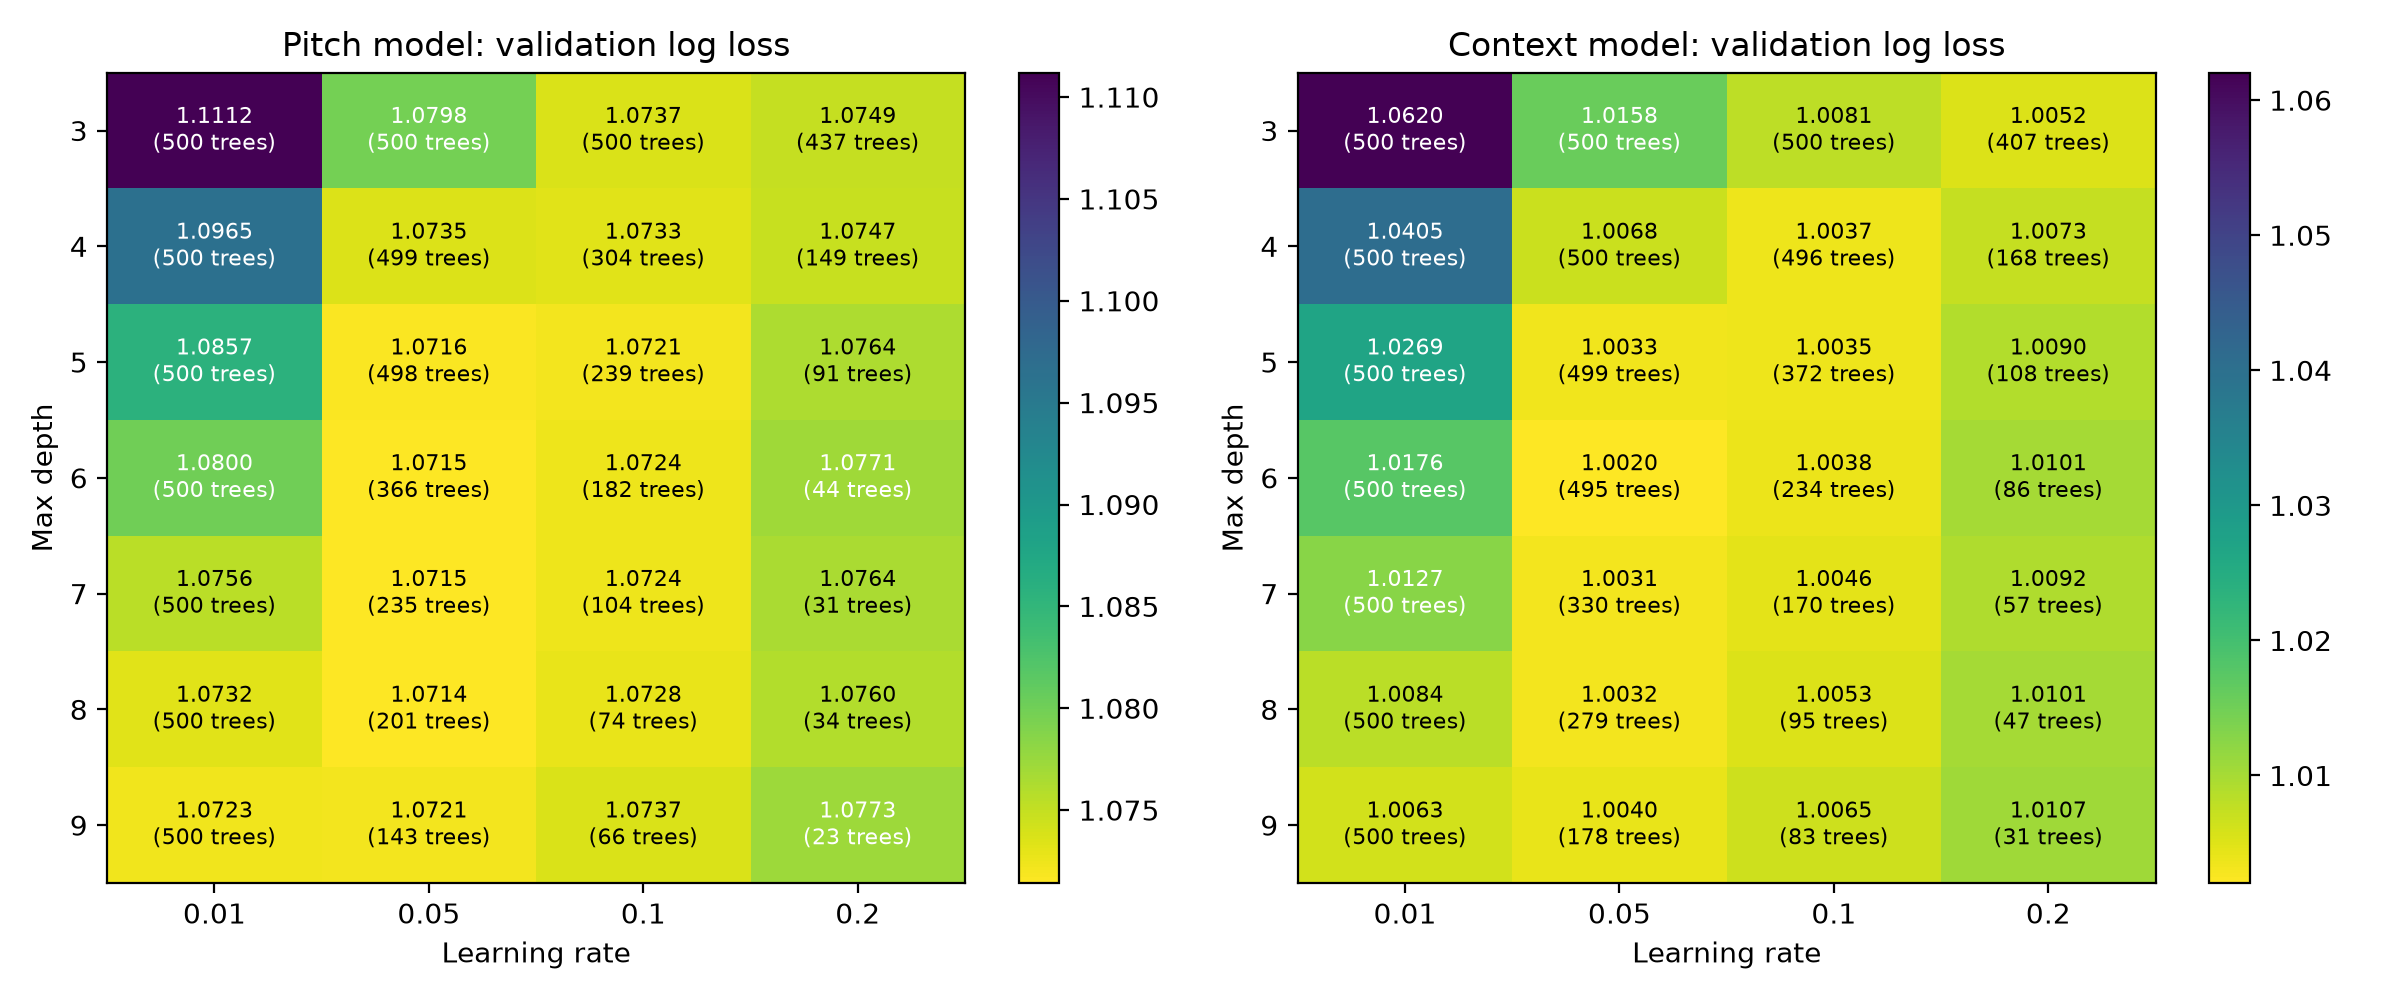
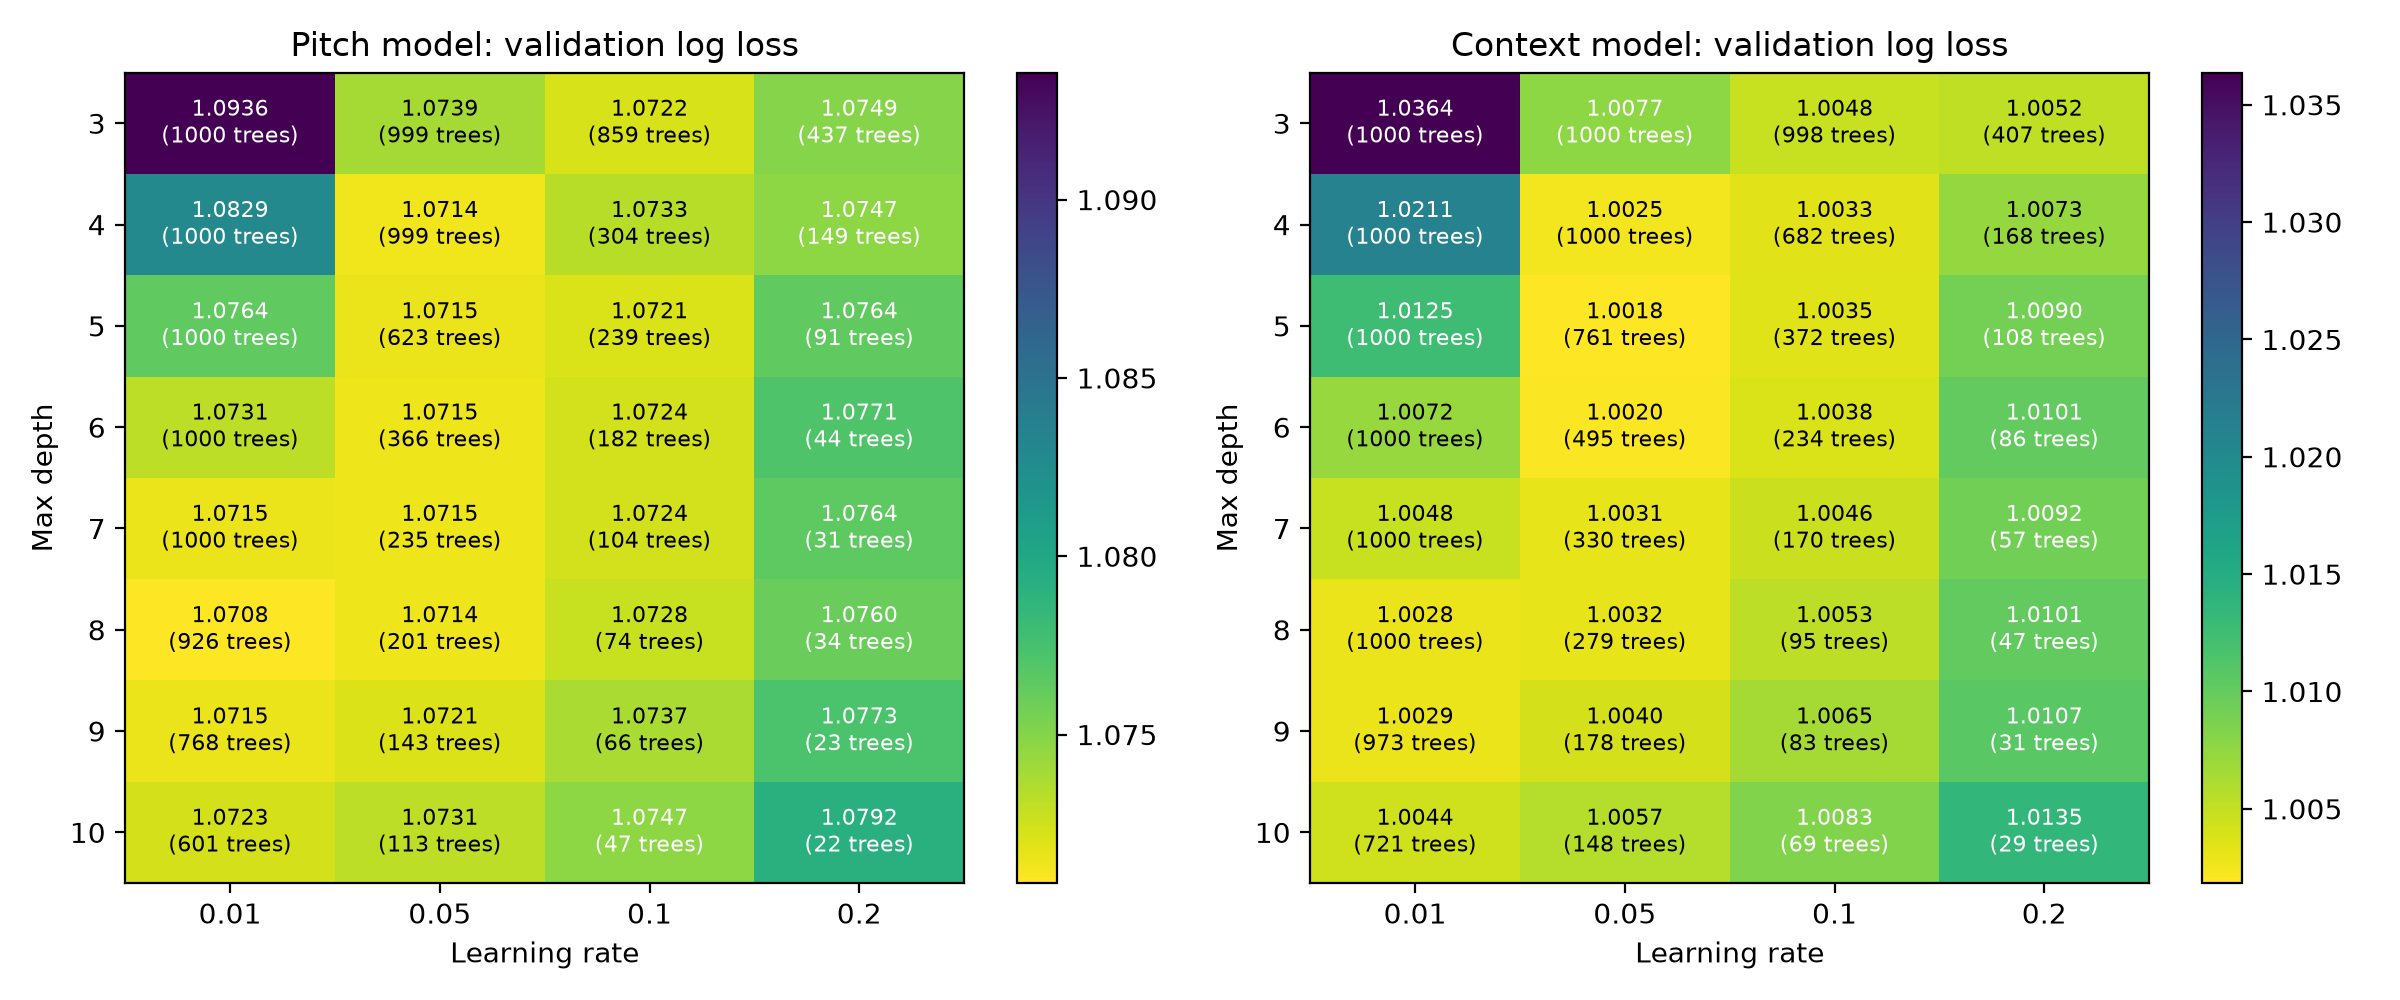
reran hgb

diff --git a/src/train_hgb.py b/src/train_hgb.py
@@ -21,10 +21,10 @@ validation_y = pd.read_csv("data/processed/validation_y.csv")["swing_result"]
 # Tune max_depth and learning_rate for each model
 results = []
 start_time = time.perf_counter()
-for d in range(3, 10):
+for d in range(3, 11):
     for r in [0.01, 0.05, 0.1, 0.2]:
-        hgb_pitch = HistGradientBoostingClassifier(random_state=10, learning_rate=r, max_iter=500, max_depth=d, max_leaf_nodes=None, early_stopping=False, categorical_features=PITCH_CATEGORICAL_FEATURES).fit(train_x_pitch, train_y)
-        hgb_context = HistGradientBoostingClassifier(random_state=10, learning_rate=r, max_iter=500, max_depth=d, max_leaf_nodes=None, early_stopping=False, categorical_features=CONTEXT_CATEGORICAL_FEATURES).fit(train_x_context, train_y)
+        hgb_pitch = HistGradientBoostingClassifier(random_state=10, learning_rate=r, max_iter=1000, max_depth=d, max_leaf_nodes=None, early_stopping=False, categorical_features=PITCH_CATEGORICAL_FEATURES).fit(train_x_pitch, train_y)
+        hgb_context = HistGradientBoostingClassifier(random_state=10, learning_rate=r, max_iter=1000, max_depth=d, max_leaf_nodes=None, early_stopping=False, categorical_features=CONTEXT_CATEGORICAL_FEATURES).fit(train_x_context, train_y)
 
         pitch_losses = []
         for probs in hgb_pitch.staged_predict_proba(validation_x_pitch):
@@ -44,7 +44,7 @@ for d in range(3, 10):
         
         pd.DataFrame(results).to_csv("results/metrics/hgb_tuning_results.csv", index=False)
 
-        print(f"[{len(results)}/28] depth={d}, lr={r} | "
+        print(f"[{len(results)}/32] depth={d}, lr={r} | "
               f"pitch {best_pitch_loss:.4f} ({best_pitch_index + 1} trees) | "
               f"context {best_context_loss:.4f} ({best_context_index + 1} trees) | "
               f"{(time.perf_counter() - start_time) / 60:.0f} min elapsed", flush=True)
